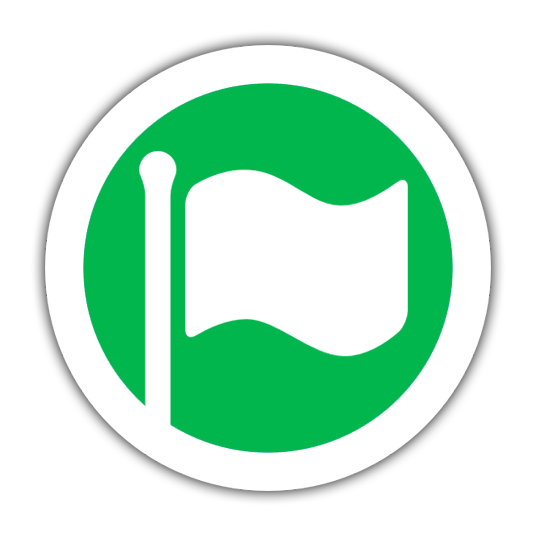
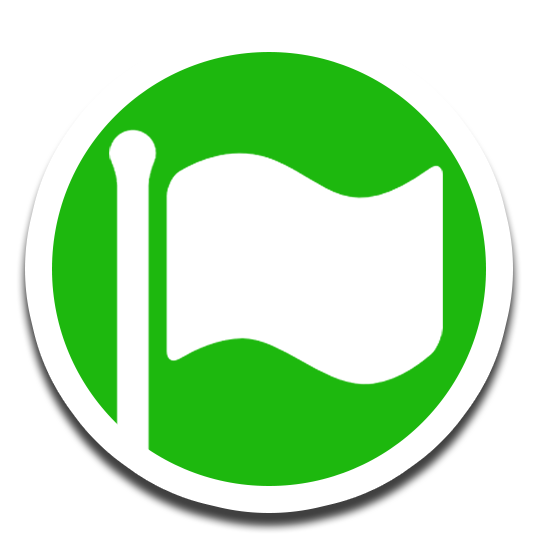
ajustes nos ícones

diff --git a/src/pages/Inicio.jsx b/src/pages/Inicio.jsx
@@ -16,7 +16,7 @@ import alertaIcon from '../assets/alertaIcon.png';
 
 const vehicleIcon = new L.Icon({
     iconUrl: veiculoIcon,
-    iconSize: [40, 40],
+    iconSize: [50, 50],
     iconAnchor: [15, 15],
     className: 'iconeVeiculo'
 });
@@ -31,7 +31,7 @@ const pontoPercursoIcon = new L.Icon({
 
 const starPercursotIcon = new L.Icon({
     iconUrl: startIcon,
-    iconSize: [35, 35],
+    iconSize: [40, 40],
     iconAnchor: [15, 15],
     popupAnchor: [0, -15],
     className: 'startIcon'

diff --git a/src/pages/components/mapa.css b/src/pages/components/mapa.css
@@ -103,11 +103,13 @@
 }
 
 .leaflet-marker-icon {
-    width: 15px;
-    height: 15px;
-    border-radius: 50px;
-    border: 4px solid var(--destaque2);
+    width: 20px;
+    height: 20px;
+    border-radius: 0px;
+    background-color: rgba(0, 0, 0, 0.0) !important;
+    /* border: 4px solid var(--destaque2); */
 }
+
 
 .leaflet-bar {
     border-radius: 0px;
